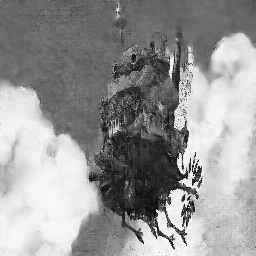
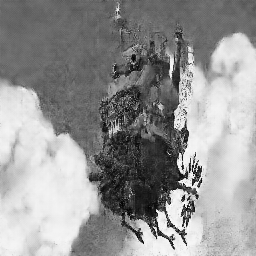
0722

diff --git a/DenoiseImages.py b/DenoiseImages.py
@@ -60,7 +60,7 @@ def unet_generator(input_size=(256, 256, 1)):
 
 print("加載生成器模型...")
 generator = unet_generator()
-model_weights = 'C:\\Users\\ytes6\\OneDrive\\文件\\GitHub\\Project-Denoise\\training_checkpoints\\generator_epoch_34' # 替換為您的權重檔路徑
+model_weights = 'C:\\Users\\ytes6\\OneDrive\\文件\\GitHub\\Project-Denoise\\training_checkpoints\\generator_epoch_38' # 替換為您的權重檔路徑
 # model_weights = 'best_generator_model.h5'
 generator.load_weights(model_weights)
 print(f"已加載模型權重：{model_weights}")

diff --git a/DenoiseImages-NoOrignal.py b/DenoiseImages-NoOrignal.py
@@ -55,7 +55,7 @@ def unet_generator(input_size=(256, 256, 1)):
 
 # 載入已訓練好的生成器權重
 generator = unet_generator()
-model_weights = 'C:\\Users\\ytes6\\OneDrive\\文件\\GitHub\\Project-Denoise\\training_checkpoints\\generator_epoch_34'
+model_weights = 'C:\\Users\\ytes6\\OneDrive\\文件\\GitHub\\Project-Denoise\\training_checkpoints\\generator_epoch_38'
 # model_weights = 'best_generator_model.h5'
 generator.load_weights(model_weights)  # 請替換為您的實際權重檔路徑
 
